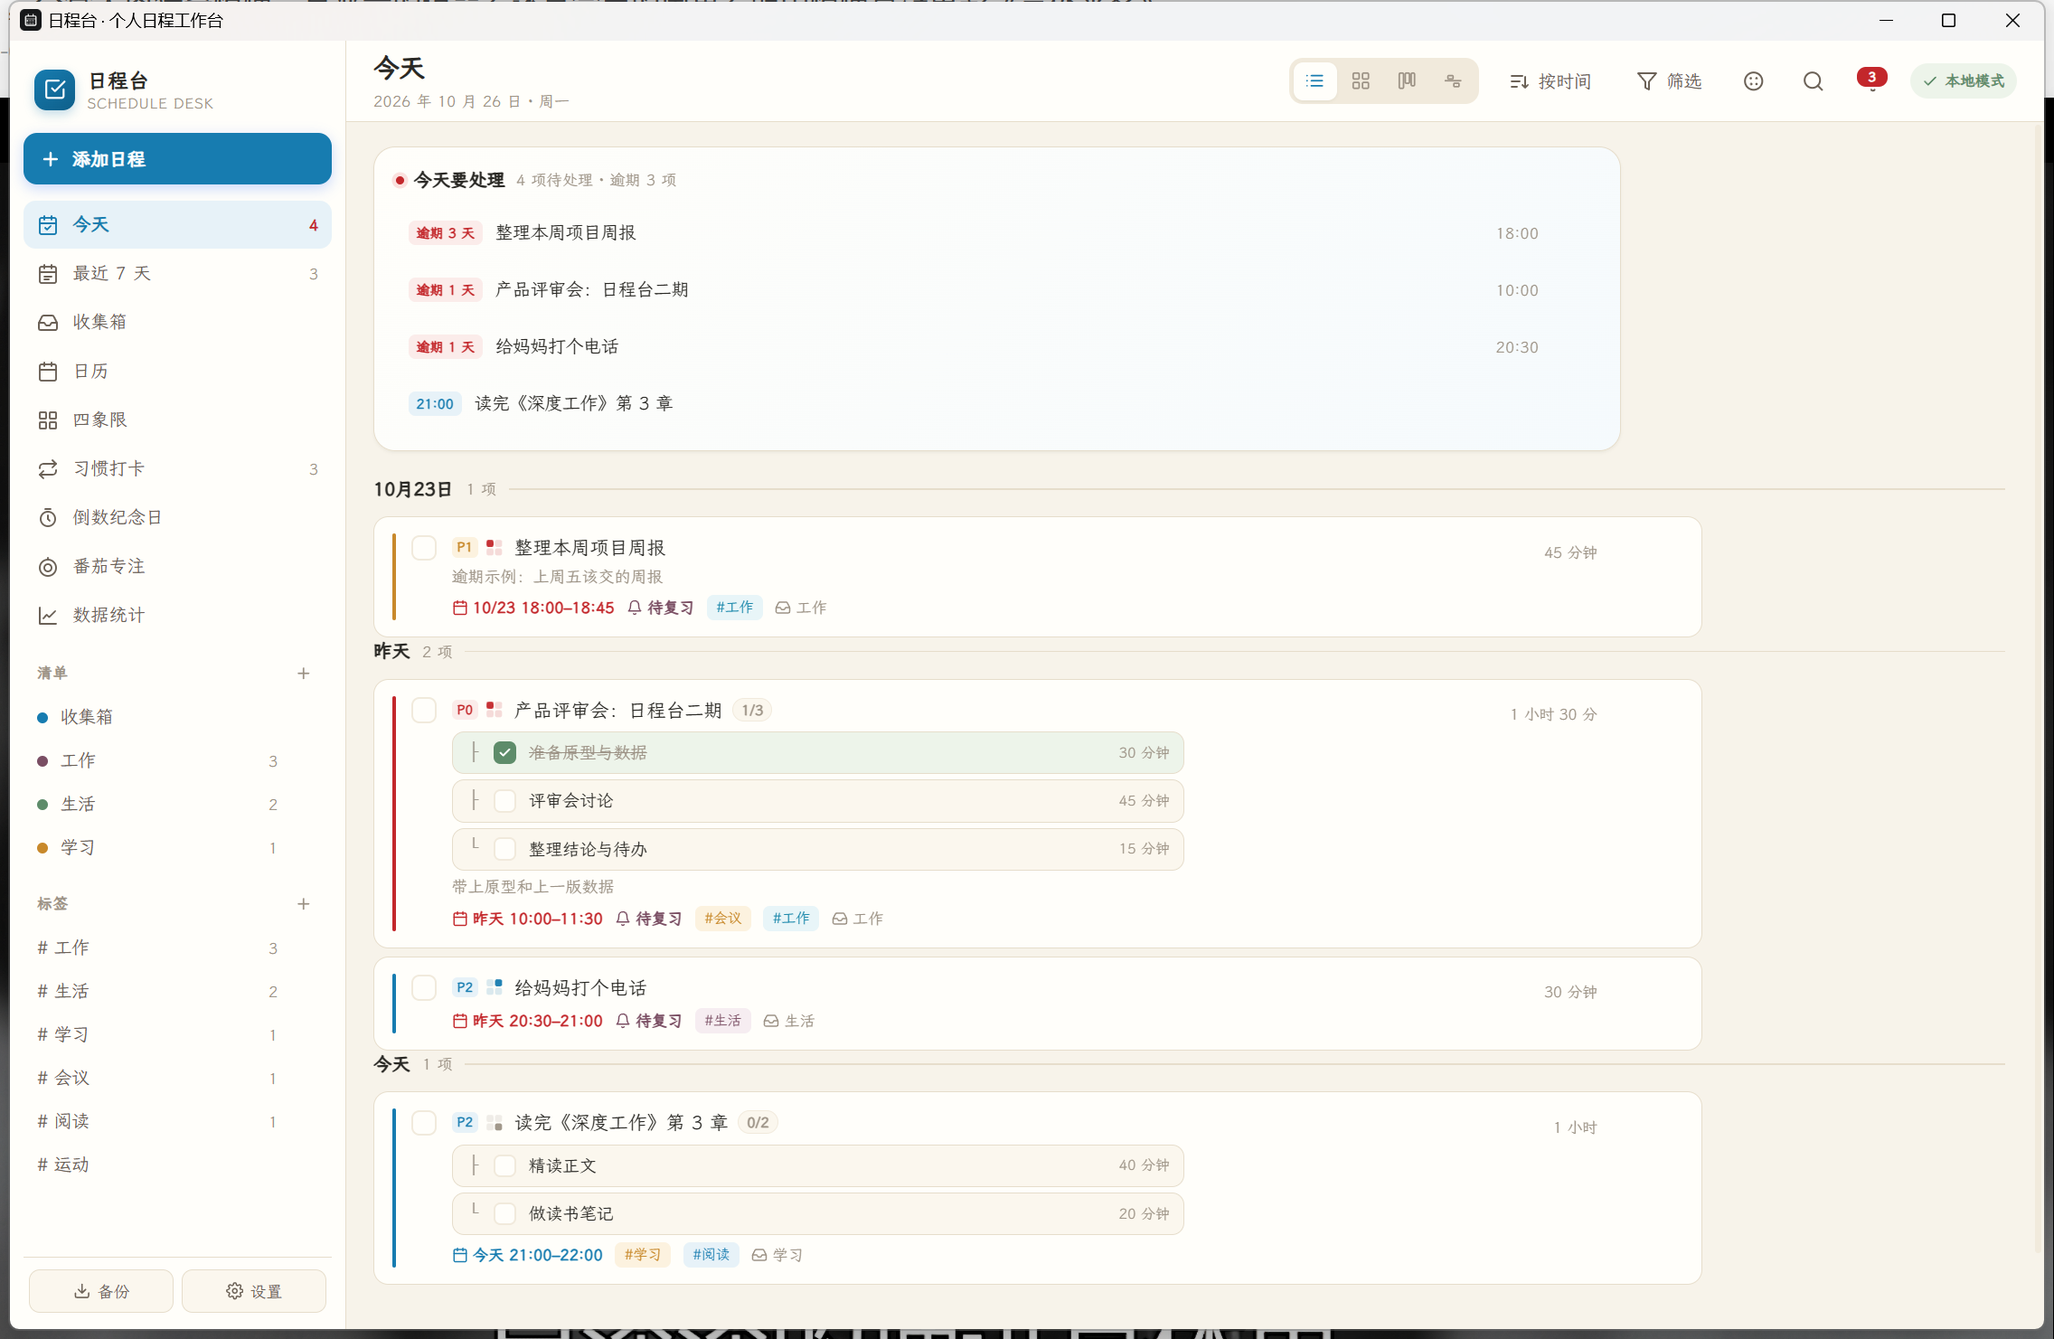
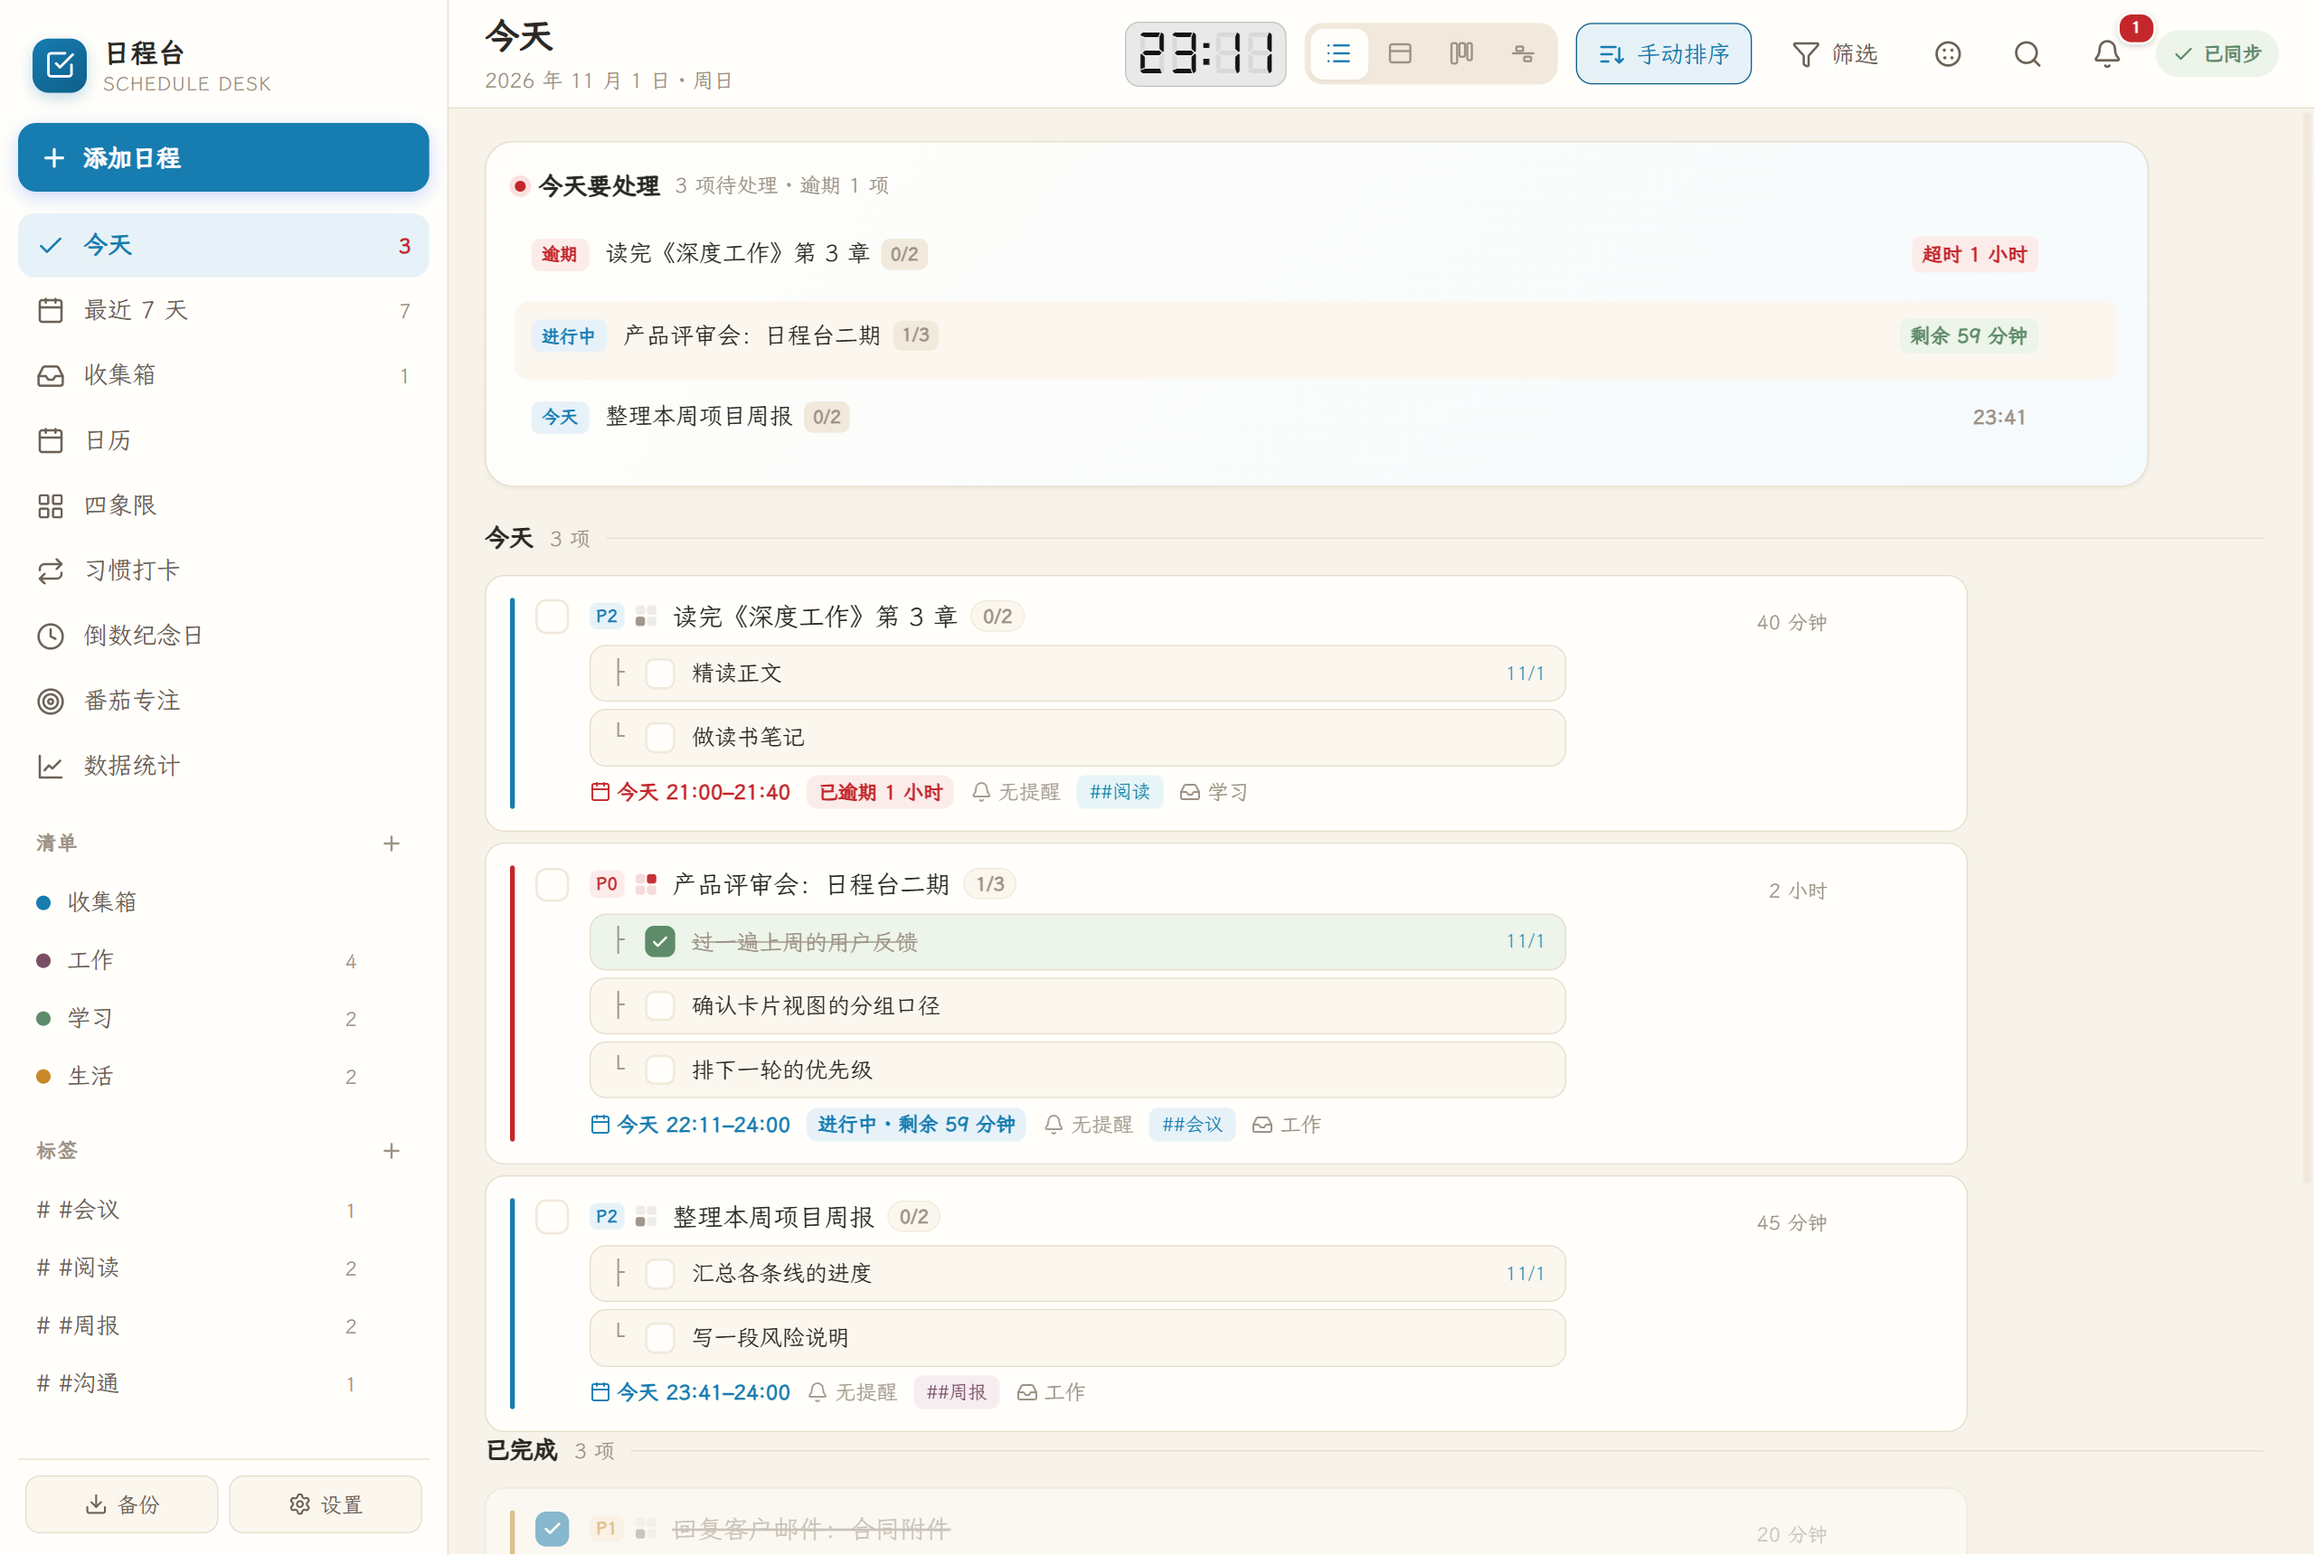
docs: 更新 README 界面预览图（v3.4.5）
旧图是 v2.x 原生 JS 版本的截图（10/26 拍的），顶栏时钟、卡片分组、子任务样式都变了。

新图：
- 1280×860 @2x（2560×1720），444 KB，和旧图体积相当
- 今天视图：待处理面板 3 条（逾期 / 进行中 / 即将开始）、3 条任务带子任务与标签、
  底部露出「已完成 3 项」，侧栏清单与标签都是真实使用里的名字
- 宣纸主题（默认），顶栏是新的数码时钟

配图数据来自新增的 build/make-demo-data.py：和 make-test-data.py 分开 ——
后者要覆盖状态矩阵的六种边界，任务名是「已逾期 · 定时无时长」这种用例名，
不适合当门面；演示数据只求像一个人真实在用（会议、周报、读书、给家里打电话），
时间相对「现在」生成，所以顶栏时钟与画面里的状态永远自洽。

diff --git a/build/make-demo-data.py b/build/make-demo-data.py
@@ -1,0 +1,204 @@
+"""生成 README 配图用的演示数据（不是测试数据）。
+
+和 make-test-data.py 的区别：那个要覆盖状态矩阵的六种边界，任务名是「已逾期 · 定时无时长」
+这种用例名；这里只求像一个人真实在用 —— 会议、周报、读书、给家里打电话。
+
+时间按「现在」相对生成：一条进行中、一条逾期未完成、三条已完成，
+这样顶栏时钟是当下时间，画面里的状态也自洽。
+
+用法：
+    python build/make-demo-data.py <目标目录>
+"""
+
+import json
+import sys
+from datetime import datetime, timedelta
+from pathlib import Path
+
+TASKS = "RBTQ4jwngkyjWiZE7VqCJZ"
+HABIT = "xaX0HSTIH0O7cXXvPnbsR2"
+COUNT = "gVxrxS4S2Zb2xddhphNdjT"
+POMO = "6ny2WVjivlBujxY3ICpYGT"
+
+
+def ymd(d):
+    return d.strftime("%Y-%m-%d")
+
+
+def hm(d):
+    return d.strftime("%H:%M")
+
+
+def rel(minutes):
+    return (datetime.now() + timedelta(minutes=minutes)).replace(second=0, microsecond=0)
+
+
+def day(n):
+    return datetime.now() + timedelta(days=n)
+
+
+def task(tid, title, date, time="", estimate=0, *, prio="P2", lst="工作", tags="",
+         important=False, urgent=False, done=False, note="", subs=None,
+         plan=False, end_date="", sort=0):
+    span = 1
+    if plan and end_date:
+        d0 = datetime.strptime(date, "%Y-%m-%d").date()
+        d1 = datetime.strptime(end_date, "%Y-%m-%d").date()
+        span = max(1, (d1 - d0).days + 1)
+    props = {
+        "标题": {"text": title},
+        "备注": {"text": note},
+        "清单": {"text": lst},
+        "标签": {"text": tags},
+        "优先级": {"select": prio},
+        "重要": {"checkbox": important},
+        "紧急": {"checkbox": urgent},
+        "已完成": {"checkbox": done},
+        "提醒模式": {"select": "不提醒"},
+        "提醒设置": {"text": ""},
+        "日期": {"date": date},
+        "时间": {"text": time},
+        "预计时长": {"number": estimate},
+        "完成时间": {"date": date if done else ""},
+        "拆分": {"text": json.dumps(subs, ensure_ascii=False) if subs else ""},
+        "重复": {"text": ""},
+        "计划": {"checkbox": bool(plan)},
+        "结束日期": {"date": end_date if plan else ""},
+        "结束时间": {"text": ""},
+        "持续": {"number": span},
+        "排序": {"number": sort},
+        "创建时间": {"date": ymd(day(-3))},
+    }
+    return {"id": tid, "properties": props, "createdAt": 1, "updatedAt": 1, "deleted": False}
+
+
+def rows():
+    today = ymd(day(0))
+    tomorrow = ymd(day(1))
+    after = ymd(day(2))
+    yesterday = ymd(day(-1))
+
+    # 正在开的那场会：1 小时前开始，2 小时时长 → 现在处于「进行中」
+    meeting = rel(-60)
+    review = rel(30)
+    out = [
+        task("d1", "产品评审会：日程台二期", today, hm(meeting), 120, prio="P0",
+             tags="#会议", important=True, urgent=True,
+             subs=[
+                 {"i": 0, "title": "过一遍上周的用户反馈", "days": 1, "done": True, "estimate": 30},
+                 {"i": 1, "title": "确认卡片视图的分组口径", "days": 0, "done": False, "estimate": 45},
+                 {"i": 2, "title": "排下一轮的优先级", "days": 0, "done": False, "estimate": 30},
+             ]),
+        task("d2", "整理本周项目周报", today, hm(review), 45, prio="P2", tags="#周报",
+             subs=[
+                 {"i": 0, "title": "汇总各条线的进度", "days": 1, "done": False, "estimate": 20},
+                 {"i": 1, "title": "写一段风险说明", "days": 0, "done": False, "estimate": 15},
+             ]),
+        # 上午已经做完的三件
+        task("d3", "回复客户邮件：合同附件", today, "11:20", 20, prio="P1", tags="#沟通", done=True),
+        task("d4", "晨会：同步昨日进度", today, "09:30", 30, prio="P2", tags="#会议", done=True),
+        task("d5", "读书 30 分钟", today, "08:00", 30, prio="P3", lst="学习", tags="#阅读", done=True),
+        # 一条没做完的（真实感，也给「逾期」状态一个样本）
+        task("d6", "读完《深度工作》第 3 章", today, "21:00", 40, prio="P2", lst="学习",
+             tags="#阅读", subs=[
+                 {"i": 0, "title": "精读正文", "days": 1, "done": False, "estimate": 25},
+                 {"i": 1, "title": "做读书笔记", "days": 0, "done": False, "estimate": 15},
+             ]),
+        # 明天 / 后天
+        task("d7", "提交季度总结", tomorrow, "09:30", 0, prio="P1", tags="#周报",
+             important=True, plan=True, end_date=ymd(day(3))),
+        task("d8", "客户电话：二期验收范围", tomorrow, "14:00", 30, prio="P1", tags="#沟通"),
+        task("d9", "给妈妈打个电话", tomorrow, "20:30", 15, prio="P2", lst="生活"),
+        task("d10", "预约体检", after, "10:00", 15, prio="P3", lst="生活"),
+        # 未安排
+        task("d11", "整理读书笔记成一篇短文", "", "", 0, prio="P3", lst="学习", tags="#阅读"),
+        # 昨天已完成
+        task("d12", "产品评审会：需求初稿", yesterday, "10:00", 90, prio="P0", tags="#会议", done=True),
+        task("d13", "买猫粮", yesterday, "19:30", 15, prio="P3", lst="生活", done=True),
+    ]
+    return out
+
+
+def habit_rows():
+    today = datetime.now().date()
+    run_log = [ymd(today - timedelta(days=i)) for i in range(0, 6)]
+    read_log = [ymd(today - timedelta(days=d)) for d in (0, 2, 3)]
+    out = []
+    for hid, name, icon, color, target, streak, total, log in [
+        ("h1", "晨跑 3 公里", "sun", "#177CB0", 5, 6, 24, run_log),
+        ("h2", "读书 30 分钟", "book", "#B4894A", 7, 1, 11, read_log),
+    ]:
+        out.append({
+            "id": hid,
+            "properties": {
+                "名称": {"text": name},
+                "图标": {"text": icon},
+                "颜色": {"text": color},
+                "每周目标": {"number": target},
+                "连续天数": {"number": streak},
+                "总打卡": {"number": total},
+                "打卡记录": {"text": json.dumps(log)},
+                "创建时间": {"date": ymd(today - timedelta(days=40))},
+            },
+            "createdAt": 1, "updatedAt": 1, "deleted": False,
+        })
+    return out
+
+
+def pomo_rows():
+    out = []
+    for i, name in enumerate(["整理会议记录", "写周报", "看论文", "画原型", "复盘"]):
+        d = day(-i)
+        out.append({
+            "id": f"p{i + 1}",
+            "properties": {
+                "任务": {"text": name},
+                "类型": {"select": "专注"},
+                "时长": {"number": 25},
+                "开始时间": {"date": d.replace(hour=10, minute=0, second=0, microsecond=0).strftime("%Y-%m-%d %H:%M")},
+                "日期": {"date": ymd(d)},
+                "子项": {"text": ""},
+                "暂停次数": {"number": 0},
+                "暂停时长": {"number": 0},
+            },
+            "createdAt": 1, "updatedAt": 1, "deleted": False,
+        })
+    return out
+
+
+def main():
+    target = Path(sys.argv[1] if len(sys.argv) > 1 else "dist/demo-data")
+    target.mkdir(parents=True, exist_ok=True)
+    rs = rows()
+    store = {
+        "schemaVersion": 2,
+        "revision": 1,
+        "deviceId": "demo",
+        "updatedAt": int(datetime.now().timestamp() * 1000),
+        "tables": {
+            TASKS: rs,
+            HABIT: habit_rows(),
+            POMO: pomo_rows(),
+            COUNT: [{
+                "id": "c1",
+                "properties": {
+                    "名称": "项目上线",
+                    "类型": {"text": "倒数日"},
+                    "日期": {"date": ymd(day(30))},
+                    "备注": {"text": ""},
+                    "颜色": {"text": "#177CB0"},
+                    "分组": {"text": ""},
+                    "系统": {"text": ""},
+                },
+                "createdAt": 1, "updatedAt": 1, "deleted": False,
+            }],
+        },
+    }
+    (target / "schedule.json").write_text(
+        json.dumps(store, ensure_ascii=False, indent=2), encoding="utf-8"
+    )
+    print(f"wrote {len(rs)} tasks -> {target / 'schedule.json'}")
+
+
+if __name__ == "__main__":
+    main()

diff --git a/README.md b/README.md
@@ -3,7 +3,7 @@
 一个本地优先的个人日程工作台：任务、习惯、倒数日、番茄专注、数据统计。
 数据存成本机文件，可选 WebDAV 多设备同步，Windows 原生提醒，关闭窗口留驻托盘。
 
-![界面预览](docs/preview.png)
+![界面预览：今天视图，含待处理面板、子任务拆分与状态胶囊](docs/preview.png)
 
 ## 功能
 
